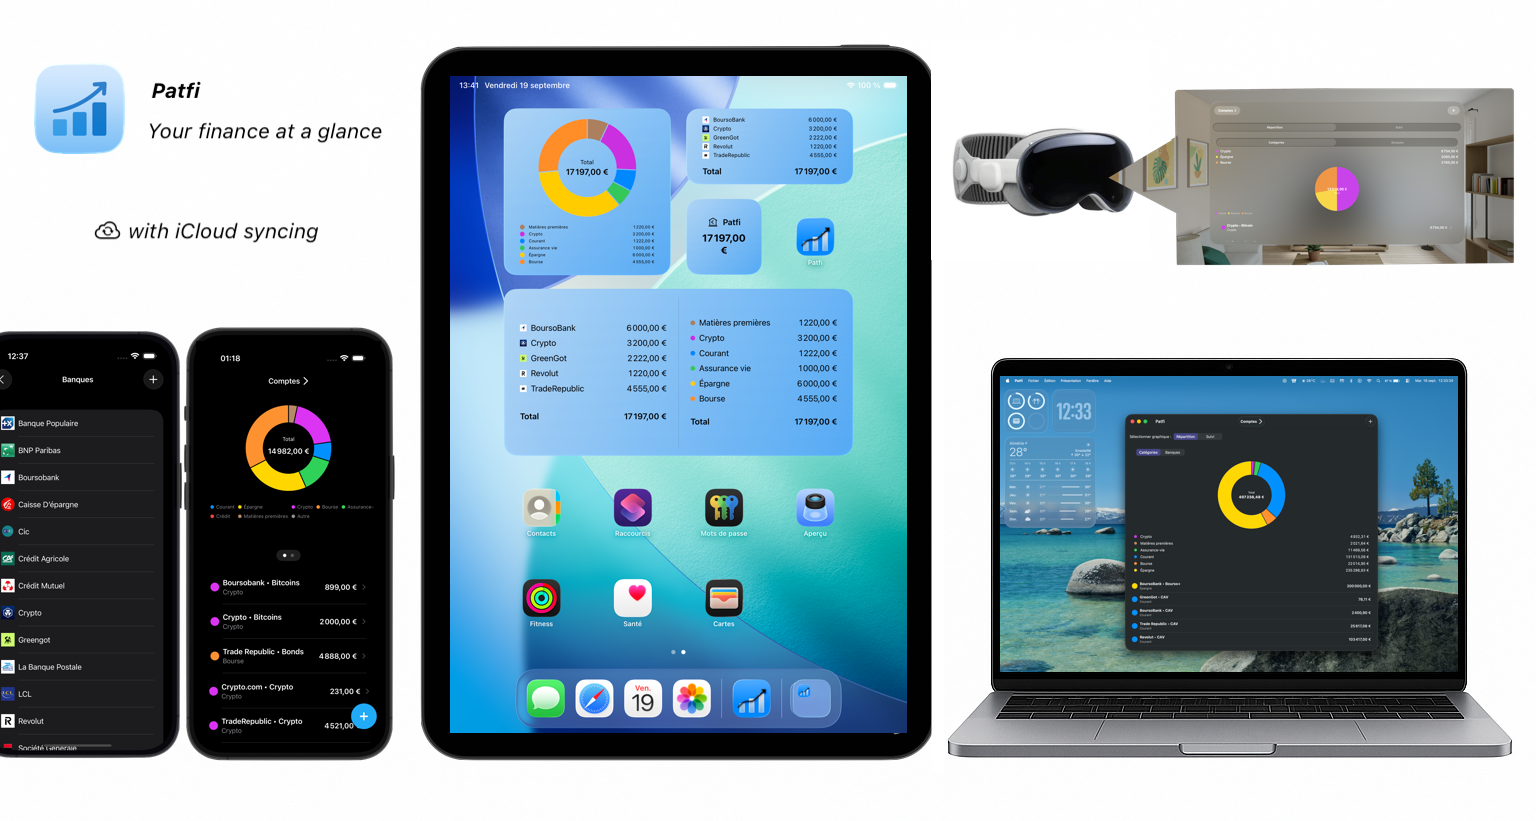
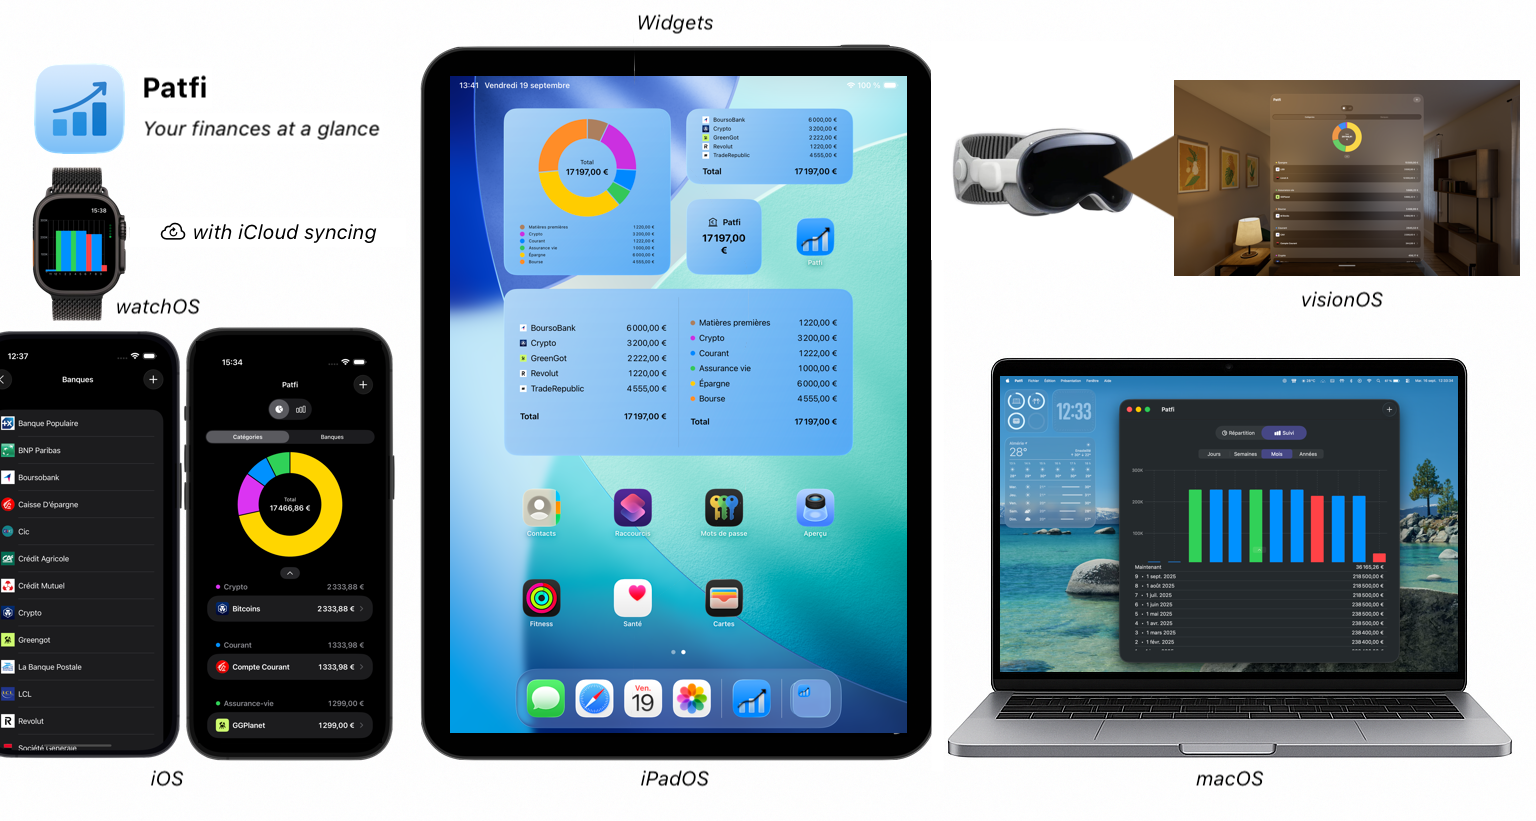
fix: UI fixes

diff --git a/Patfi/Home/HomeView.swift b/Patfi/Home/HomeView.swift
@@ -15,6 +15,7 @@ struct HomeView: View {
     @State private var selectedChart = 0
     @State var pieChartMode: PieChartView.Mode = .categories
     @State var totalChartPeriod: Period = .months
+    @State private var isGraphHidden = false
     
     let repo = BalanceRepository()
         
@@ -65,13 +66,18 @@ struct HomeView: View {
                         .controlSize(.extraLarge)
                         .frame(width: 100)
                     }
-                    if selectedChart == 0 {
-                        PieChartView(grouping: $pieChartMode)
-                    } else {
-                        TotalChartView(snapshots: snapshots, period: $totalChartPeriod)
-                            .frame(maxHeight: .infinity)
+                    Group {
+                        if selectedChart == 0 {
+                            PieChartView(grouping: $pieChartMode)
+                        } else {
+                            TotalChartView(snapshots: snapshots, period: $totalChartPeriod)
+                                .frame(maxHeight: .infinity)
+                        }
                     }
+                    .frame(height: isGraphHidden ? 0 : nil)
+                    .opacity(isGraphHidden ? 0 : 1)
                     if !isLandscape {
+                        ArrowButton(isUp: $isGraphHidden)
                         List {
                             if selectedChart == 0 {
                                 switch pieChartMode {
@@ -183,6 +189,7 @@ struct HomeView: View {
                 AddAccountView()
             }
             .navigationTitle("Patfi")
+            
             #if !os(macOS)
             .navigationBarTitleDisplayMode(.inline)
             #endif

diff --git a/Patfi/Home/ArrowButton.swift b/Patfi/Home/ArrowButton.swift
@@ -1,0 +1,25 @@
+import SwiftUI
+
+struct ArrowButton: View {
+    
+    @Binding var isUp: Bool
+
+    var body: some View {
+        Button(action: {
+            withAnimation(.spring()) {
+                isUp.toggle()
+            }
+        }) {
+            Image(systemName: "chevron.up")
+                .foregroundColor(.primary)
+                .rotationEffect(.degrees(isUp ? 180 : 0))
+                .padding(4)
+        }
+        .buttonStyle(.bordered)
+        .controlSize(.mini)
+    }
+}
+
+#Preview {
+    ArrowButton(isUp: Binding<Bool>(projectedValue: .constant(false)))
+}
